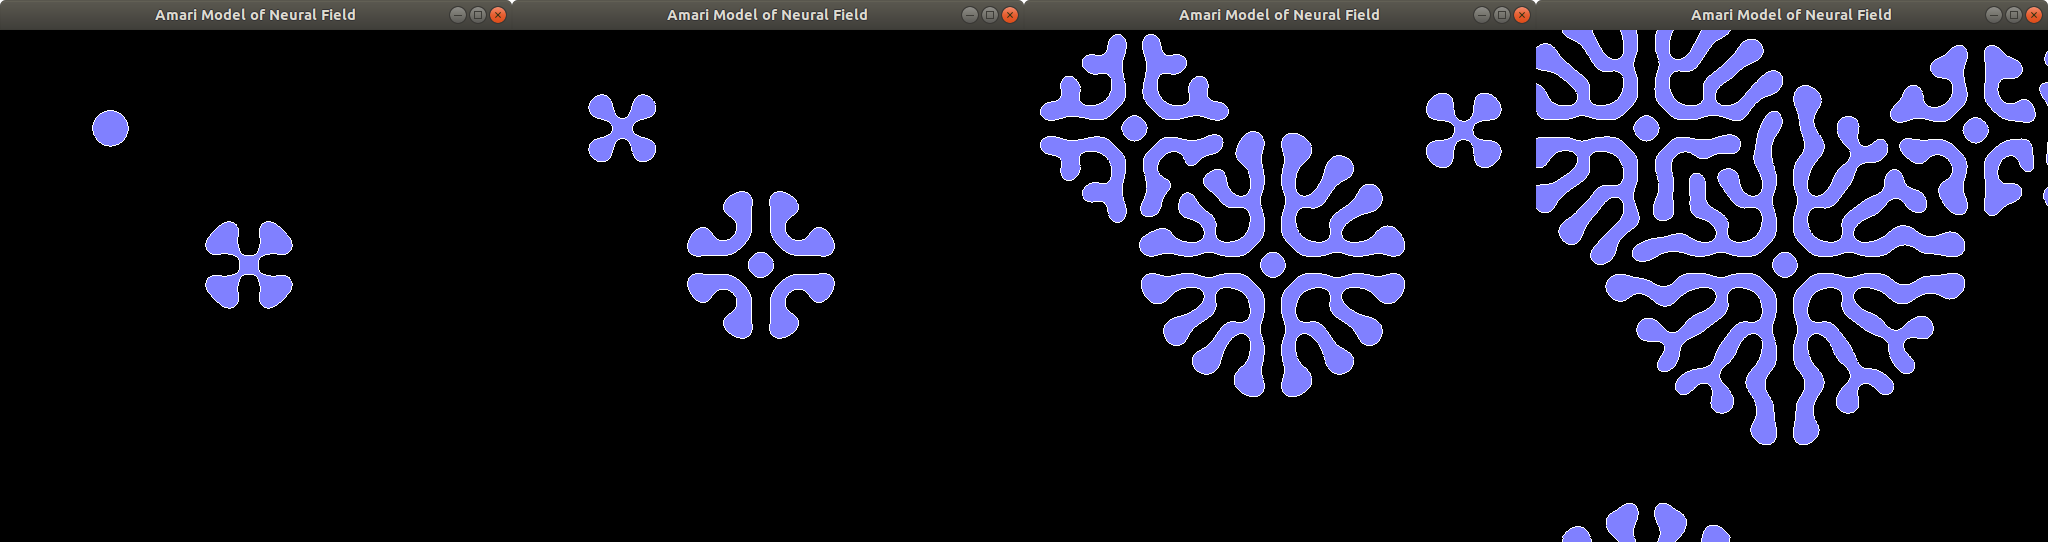
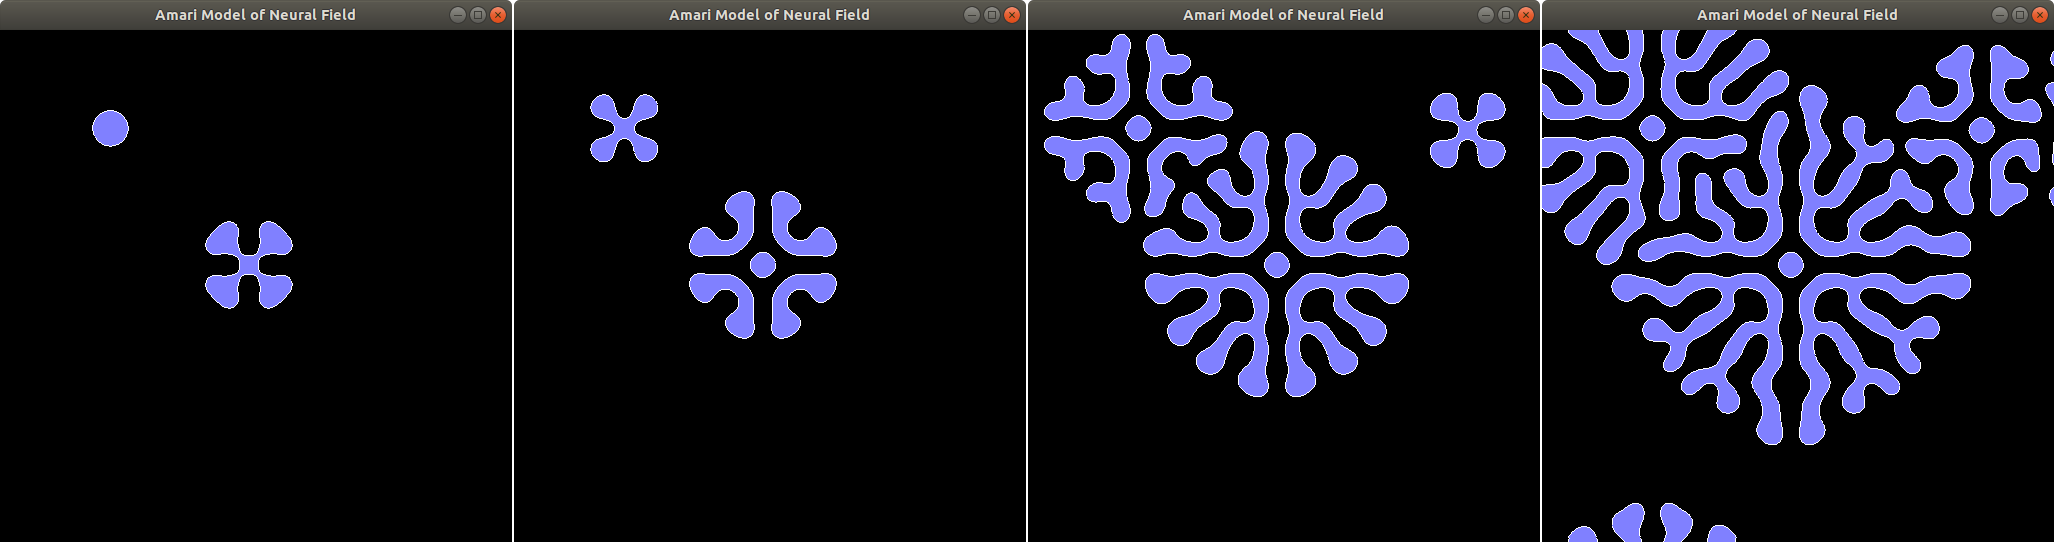
Updated README

diff --git a/README.md b/README.md
@@ -13,7 +13,13 @@ neural area.
 ## Prerequisites
 
 Compiling and running the sample project requires GCC, CMake, GNU Make
-as well as some graphics libraries installed.
+as well as FreeType library for text rendering. Most of the dependencies needed
+are bundled with the repository. This includes:
+
+* [glad](https://github.com/Dav1dde/glad) - OpenGL Function Loader.
+* [glfw](https://github.com/glfw/glfw) - Windowing and Input.
+* [glm](https://github.com/g-truc/glm) - OpenGL Mathematics.
+* [plog](https://github.com/SergiusTheBest/plog) - Logging library.
 
 ## Environment Setup
 
@@ -28,9 +34,7 @@ The following instructions are applied to these operating systems:
 sudo apt-get install -y \
     build-essential \
     cmake \
-    freeglut3-dev \
-    libglew-dev \
-    libglm-dev \
+    xorg-dev \
     libfreetype6-dev
 ```
 
@@ -41,12 +45,12 @@ The following instructions are applied to these operating systems:
 * Fedora >=22
 
 ```
-sudo dnf groupinstall -y "Development Tools"
+sudo dnf groupinstall -y \
+    "Development Tools" \
+    "Development Libraries" \
+    "X Software Development"
 sudo dnf install -y \
     cmake \
-    freeglut-devel \
-    glew-devel \
-    glm-devel \
     freetype-devel
 ```
 
@@ -106,7 +110,7 @@ The parameters of the model can be adjusted in the `data/amari.conf` file:
 
 ```
 # size = 128 | 256 | 512
-size = 256
+size = 128
 
 # h = 0..-0.3
 h = -0.2
@@ -131,9 +135,9 @@ Smaller values lead to unsymmetric development of an activity.
 boundary neurons to influence the opposite boundary. `reflect` stands for boundary as the line
 of an active neurons.
 
-![Neural Field With h=0](images/neuralField1.png)
-![Neural Field With h=-0.15](images/neuralField2.png)
-![Neural Field With h=-0.3](images/neuralField3.png)
+h=0  | h=-0.15 | h=-0.3
+---- | ------- | ------
+![Neural Field With h=0](images/neural1.gif) | ![Neural Field With h=-0.15](images/neural2.gif) | ![Neural Field With h=-0.3](images/neural3.gif)
 
 
 ## Controls
